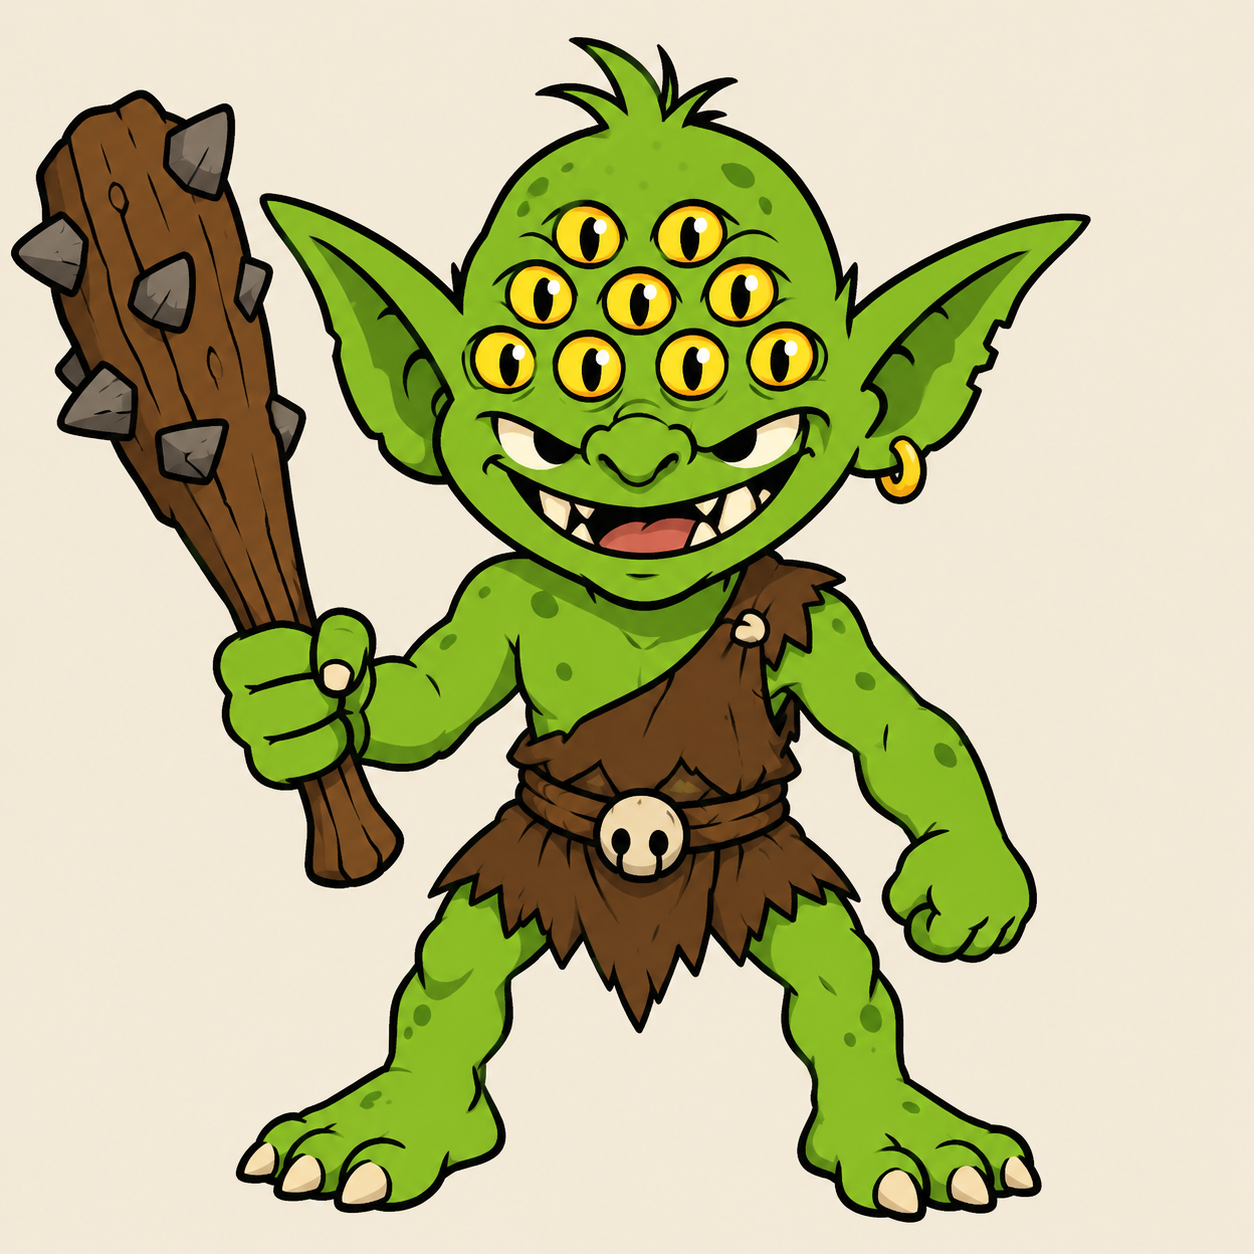
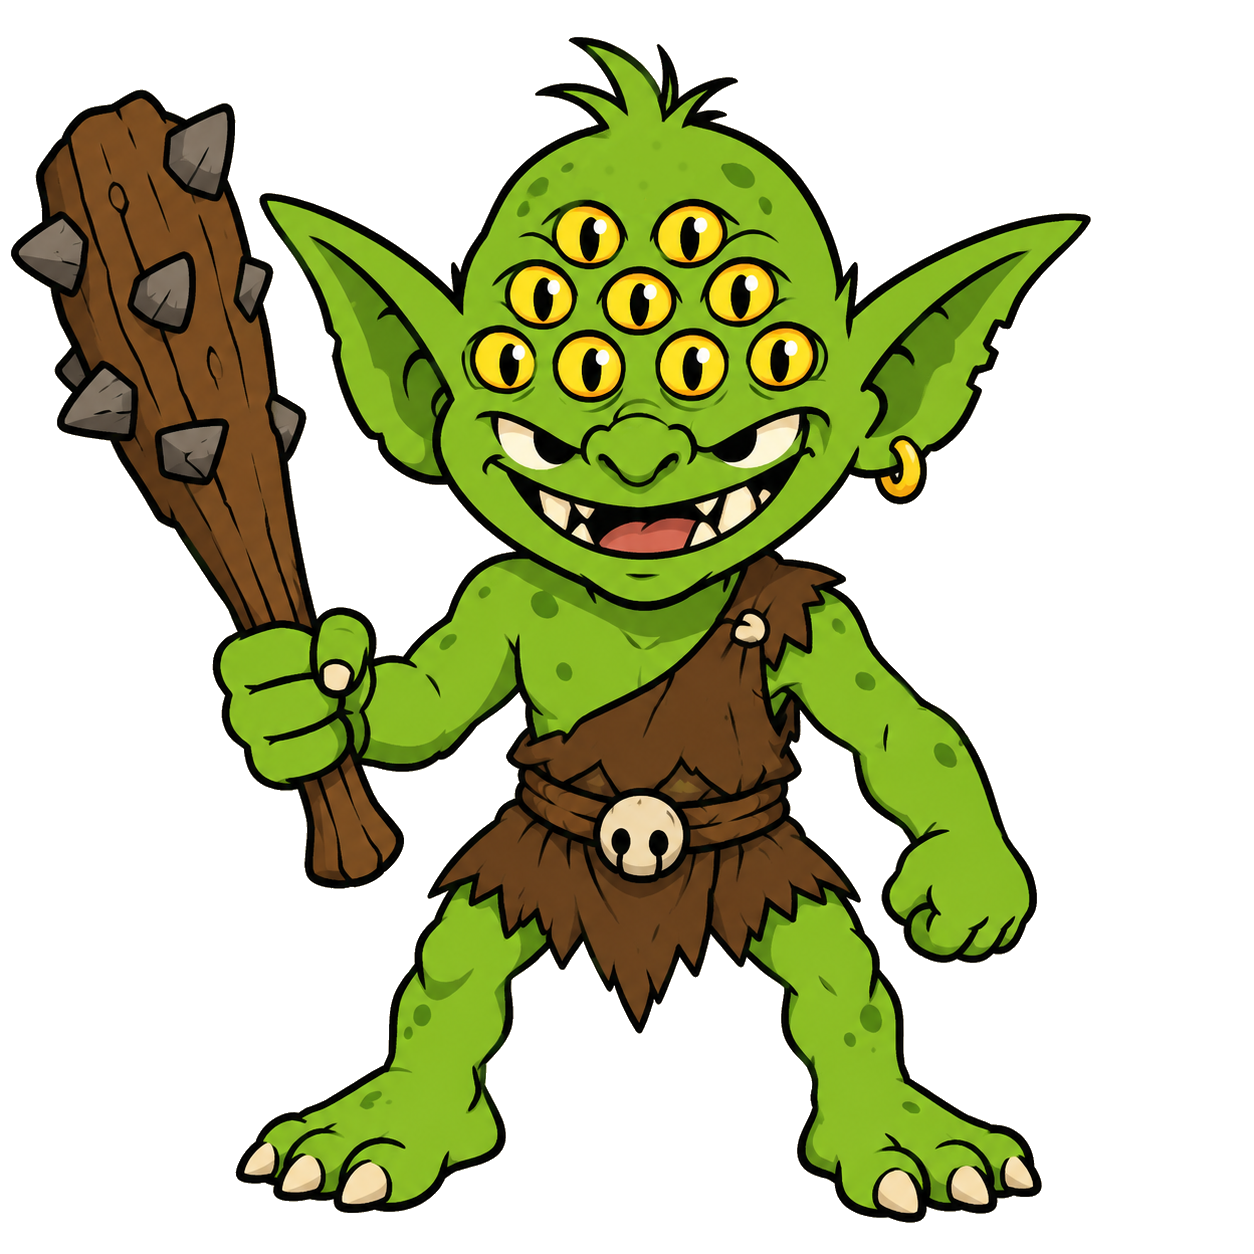
feat: knock out the monster's flat background so it sits over the scene

diff --git a/scripts/knockout.py b/scripts/knockout.py
@@ -1,0 +1,52 @@
+"""Knock out the flat background of a monster PNG so it can sit over a scene.
+
+Usage: python3 scripts/knockout.py public/art/monster/<slug>.png
+
+The generator's "plain flat single-color background" is uniform but not the exact hex asked for,
+so the colour is sampled from the corners. Only pixels reachable from the border are cleared, so a
+similar colour inside the figure survives. Edits in place; re-run is a no-op once the corners are
+transparent.
+"""
+import sys
+from collections import deque
+
+from PIL import Image
+
+TOLERANCE = 28  # per channel; the sampled border varied by 7, anti-aliased fringe needs more
+
+
+def knockout(path: str) -> int:
+    im = Image.open(path).convert("RGBA")
+    w, h = im.size
+    px = im.load()
+    corners = [px[0, 0], px[w - 1, 0], px[0, h - 1], px[w - 1, h - 1]]
+    if all(c[3] == 0 for c in corners):
+        return 0
+    bg = tuple(sum(c[i] for c in corners) // 4 for i in range(3))
+    near = lambda p: all(abs(p[i] - bg[i]) <= TOLERANCE for i in range(3))
+    seen = bytearray(w * h)
+    queue = deque((x, y) for x in range(w) for y in (0, h - 1))
+    queue.extend((x, y) for y in range(h) for x in (0, w - 1))
+    cleared = 0
+    while queue:
+        x, y = queue.popleft()
+        i = y * w + x
+        if seen[i]:
+            continue
+        seen[i] = 1
+        p = px[x, y]
+        if not near(p):
+            continue
+        px[x, y] = (p[0], p[1], p[2], 0)
+        cleared += 1
+        if x > 0: queue.append((x - 1, y))
+        if x < w - 1: queue.append((x + 1, y))
+        if y > 0: queue.append((x, y - 1))
+        if y < h - 1: queue.append((x, y + 1))
+    im.save(path, "PNG", optimize=True)
+    return cleared
+
+
+if __name__ == "__main__":
+    for arg in sys.argv[1:]:
+        print(f"{arg}: cleared {knockout(arg)} pixels")

diff --git a/docs/art-style.md b/docs/art-style.md
@@ -24,8 +24,17 @@ and slightly silly tone suitable for a 10-year-old. Clean composition with a sin
 | Character  | Aspect ratio is 1:1. Waist up, facing the viewer, on a plain flat single-color background (#F4EFE6).                         |
 | Loot       | Aspect ratio is 1:1. One object, centered, on a plain flat single-color background (#F4EFE6).                                |
 
-Images are displayed inside a framed panel, so plain backgrounds are fine and no cutout is needed.
-Commit files as `public/art/<kind>/<slug>.png` (kind in lowercase: `background`, `monster`, `character`, `loot`).
+Characters and Loot are displayed inside a framed panel on a plain ground, so their flat backgrounds
+stay. Monsters stand in front of a scene background, so their flat colour is knocked out before
+committing (issue #4):
+
+```bash
+python3 scripts/knockout.py public/art/monster/<slug>.png
+```
+
+The script samples the corner colour and clears only what is reachable from the border, so ask for
+the plain background as usual and let the script remove it. Commit files as
+`public/art/<kind>/<slug>.png` (kind in lowercase: `background`, `monster`, `character`, `loot`).
 ChatGPT downloads are sometimes JPEG data with a `.png` name (character-01 was). Re-encode before
 committing:
 
@@ -52,6 +61,8 @@ python3 -c "from PIL import Image; p='public/art/character/character-01.png'; Im
   For the three selectable portraits, name each one's hat colour, hair and skin so they read as
   different people at thumbnail size (see character-02 and character-03 below).
 - castle-01 is kept on purpose as the "before" of the mood-word lesson. Nothing in the game uses it.
+- The generator ignores the exact background hex: gob-nine came back on (240, 230, 212), not
+  #F4EFE6. Never hardcode the colour in a knockout; sample it.
 
 ## Prompts
 
